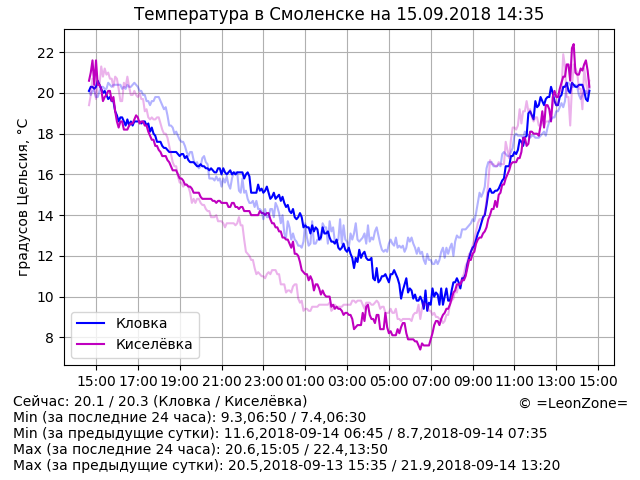
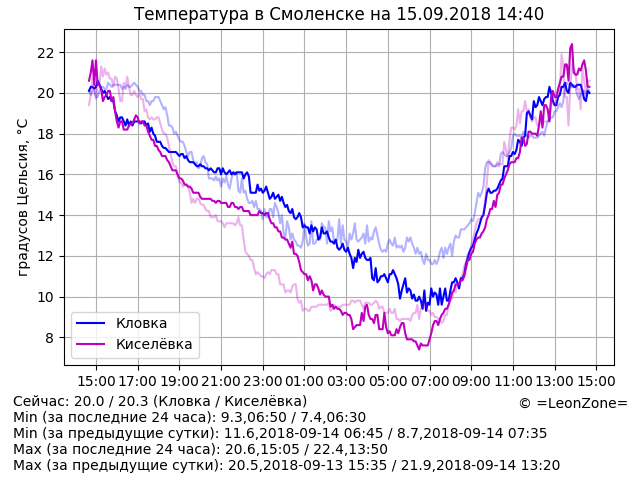
Update data

diff --git a/index.html b/index.html
@@ -14,7 +14,7 @@
 	<p align="center"><script>document.write("<img src=\"graph.png?rnd="+Math.random()+"\" alt=\"Температура в Смоленске\" align=\"middle\" width=\"640\" height=\"480\" />")</script>
 	<p hidden="true">
 <!-- textinfo -->
-Сейчас: 20.1 / 20.3 (Кловка / Киселёвка)
+Сейчас: 20.0 / 20.3 (Кловка / Киселёвка)
 Min (за последние 24 часа): 9.3,06:50 / 7.4,06:30
 Min (за предыдущие сутки): 11.6,2018-09-14 06:45 / 8.7,2018-09-14 07:35
 Max (за последние 24 часа): 20.6,15:05 / 22.4,13:50
